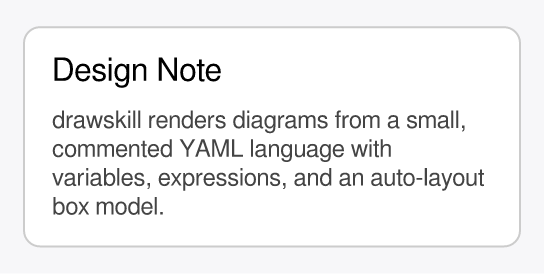
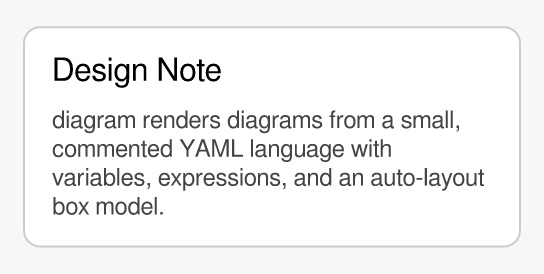
Rename project from drawskill to diagram
Unifies the project name with the companion Claude skill (already named
`diagram`). Renames all five crate directories and their package/dependency
names, the CLI binary, all Rust identifiers, and every prose reference in
docs, skill files, and examples. Re-renders note_card artifacts to pick up
the updated body text.

Changed region(s): [[0.125, 0.3796, 0.8438, 0.4964]]

diff --git a/crates/diagram-symbols-schematic/src/lib.rs b/crates/diagram-symbols-schematic/src/lib.rs
@@ -1,15 +1,15 @@
-//! Schematic (electronic) symbols for drawskill.
+//! Schematic (electronic) symbols for diagram.
 //!
 //! Provides the `schematic` plugin with common two-terminal components (resistor, capacitor,
 //! inductor, diode, voltage source, switch), a ground symbol, a wire junction, and a generic
 //! [`ic`](Ic) with named pins. Two-terminal parts are drawn horizontally with connection
 //! ports `a` (left) and `b` (right); the IC exposes one port per named pin.
 
-use drawskill_core::draw::{Painter, PathCmd, ShapeStyle, Stroke};
-use drawskill_core::geom::{Point, Rect, Size};
-use drawskill_core::measure::TextMeasurer;
-use drawskill_core::style::{Style, TextAnchor};
-use drawskill_core::symbols::{
+use diagram_core::draw::{Painter, PathCmd, ShapeStyle, Stroke};
+use diagram_core::geom::{Point, Rect, Size};
+use diagram_core::measure::TextMeasurer;
+use diagram_core::style::{Style, TextAnchor};
+use diagram_core::symbols::{
     Dir, Port, PropKind, PropValue, PropertySpec, Props, Symbol, SymbolPlugin,
 };
 
@@ -69,7 +69,7 @@ fn value_label(props: &Props, key: &str, unit: &str) -> Option<String> {
     }
     match props.get(key) {
         Some(PropValue::Number(n)) => {
-            Some(format!("{}{}", drawskill_core::expr::format_num(*n), unit))
+            Some(format!("{}{}", diagram_core::expr::format_num(*n), unit))
         }
         Some(PropValue::Text(s)) if !s.is_empty() => Some(format!("{s}{unit}")),
         _ => None,
@@ -114,7 +114,7 @@ fn draw_label(p: &mut Painter, bounds: Rect, text: &str, style: &Style) {
     p.text(
         Point::new(bounds.center().x, bounds.y + LABEL_H - 3.0),
         text,
-        drawskill_core::draw::TextStyle {
+        diagram_core::draw::TextStyle {
             color: style.text_color,
             font_family: style.font_family.clone(),
             font_size: style.font_size.min(LABEL_H),
@@ -799,7 +799,7 @@ impl Symbol for Ic {
         p.text(
             body.center(),
             props.text_or("name", "IC"),
-            drawskill_core::draw::TextStyle {
+            diagram_core::draw::TextStyle {
                 color: style.text_color,
                 font_family: style.font_family.clone(),
                 font_size: 13.0,
@@ -813,7 +813,7 @@ impl Symbol for Ic {
             p.text(
                 pin.label_pos,
                 &pin.name,
-                drawskill_core::draw::TextStyle {
+                diagram_core::draw::TextStyle {
                     color: style.text_color,
                     font_family: style.font_family.clone(),
                     font_size: 11.0,
@@ -827,9 +827,9 @@ impl Symbol for Ic {
 #[cfg(test)]
 mod tests {
     use super::*;
-    use drawskill_core::draw::Primitive;
-    use drawskill_core::measure::BasicMeasurer;
-    use drawskill_core::symbols::Registry;
+    use diagram_core::draw::Primitive;
+    use diagram_core::measure::BasicMeasurer;
+    use diagram_core::symbols::Registry;
 
     fn registry() -> Registry {
         let mut r = Registry::new();

diff --git a/crates/diagram-cli/src/main.rs b/crates/diagram-cli/src/main.rs
@@ -1,4 +1,4 @@
-//! drawskill command-line interface.
+//! diagram command-line interface.
 //!
 //! Subcommands:
 //! - `render`  — render a YAML diagram to SVG/PNG/PDF.
@@ -7,7 +7,7 @@
 //! - `symbols` — list symbols or describe one symbol's properties.
 //! - `install` — install the companion Claude skill into a `.claude/skills` directory.
 
-/// The Claude skill files, embedded so `drawskill install` is self-contained.
+/// The Claude skill files, embedded so `diagram install` is self-contained.
 const SKILL_MD: &str = include_str!("../../../skill/SKILL.md");
 const SKILL_LANGUAGE: &str = include_str!("../../../skill/reference/language.md");
 const SKILL_SYMBOLS: &str = include_str!("../../../skill/reference/symbols.md");
@@ -18,23 +18,23 @@ use std::process::ExitCode;
 
 use clap::{Parser, Subcommand};
 
-use drawskill_core::measure::TextMeasurer;
-use drawskill_core::output::Format;
-use drawskill_core::symbols::{PropKind, PropValue, Registry};
-use drawskill_core::text::FontContext;
+use diagram_core::measure::TextMeasurer;
+use diagram_core::output::Format;
+use diagram_core::symbols::{PropKind, PropValue, Registry};
+use diagram_core::text::FontContext;
 
 /// Build a registry with the built-in symbol plugins registered.
 fn build_registry() -> Registry {
     let mut reg = Registry::new();
-    reg.register(&drawskill_symbols_schematic::Schematic);
-    reg.register(&drawskill_symbols_dataflow::Dataflow);
-    reg.register(&drawskill_symbols_shapes::Shapes);
+    reg.register(&diagram_symbols_schematic::Schematic);
+    reg.register(&diagram_symbols_dataflow::Dataflow);
+    reg.register(&diagram_symbols_shapes::Shapes);
     reg
 }
 
 #[derive(Parser)]
 #[command(
-    name = "drawskill",
+    name = "diagram",
     version,
     about = "Render diagrams from a YAML language to SVG/PNG/PDF."
 )]
@@ -133,7 +133,7 @@ fn main() -> ExitCode {
     match result {
         Ok(()) => ExitCode::SUCCESS,
         Err(e) => {
-            eprintln!("drawskill: error: {e}");
+            eprintln!("diagram: error: {e}");
             ExitCode::FAILURE
         }
     }
@@ -199,7 +199,7 @@ fn cmd_render(input: PathBuf, output: String, format: Option<String>, scale: f32
 
     let registry = build_registry();
     let measurer = FontContext::new();
-    let bytes = drawskill_core::render_to_bytes(&source, &registry, &measurer, fmt, scale)?;
+    let bytes = diagram_core::render_to_bytes(&source, &registry, &measurer, fmt, scale)?;
 
     if output == "-" {
         std::io::stdout().write_all(&bytes)?;
@@ -295,7 +295,7 @@ fn cmd_symbols(what: SymbolsCmd) -> CmdResult {
         SymbolsCmd::Describe { name } => {
             let sym = registry
                 .get(&name)
-                .ok_or_else(|| format!("unknown symbol {name:?} (try `drawskill symbols list`)"))?;
+                .ok_or_else(|| format!("unknown symbol {name:?} (try `diagram symbols list`)"))?;
             let props = sym
                 .property_schema()
                 .into_iter()

diff --git a/crates/diagram-symbols-dataflow/src/lib.rs b/crates/diagram-symbols-dataflow/src/lib.rs
@@ -1,15 +1,15 @@
-//! Data-flow diagram (DFD) symbols for drawskill.
+//! Data-flow diagram (DFD) symbols for diagram.
 //!
 //! Provides the `dataflow` plugin: `process` (circle), `entity` (external entity rectangle),
 //! `store` (open-ended data store), `flow` (a labeled arrow), and `boundary` (a dashed trust
 //! boundary box). Process/entity/store expose compass ports `n`, `e`, `s`, `w`; `flow` uses
 //! `a`/`b`.
 
-use drawskill_core::draw::{Painter, ShapeStyle, Stroke, TextStyle};
-use drawskill_core::geom::{Point, Rect, Size};
-use drawskill_core::measure::TextMeasurer;
-use drawskill_core::style::{Style, TextAnchor};
-use drawskill_core::symbols::{
+use diagram_core::draw::{Painter, ShapeStyle, Stroke, TextStyle};
+use diagram_core::geom::{Point, Rect, Size};
+use diagram_core::measure::TextMeasurer;
+use diagram_core::style::{Style, TextAnchor};
+use diagram_core::symbols::{
     Dir, Port, PropKind, PropValue, PropertySpec, Props, Symbol, SymbolPlugin,
 };
 
@@ -80,7 +80,7 @@ fn label_of(props: &Props) -> &str {
 
 fn number_of(props: &Props) -> Option<String> {
     match props.get("number") {
-        Some(PropValue::Number(n)) => Some(drawskill_core::expr::format_num(*n)),
+        Some(PropValue::Number(n)) => Some(diagram_core::expr::format_num(*n)),
         Some(PropValue::Text(s)) if !s.is_empty() => Some(s.clone()),
         _ => None,
     }
@@ -334,10 +334,10 @@ impl Symbol for Flow {
         let tip = Point::new(bounds.right(), cy);
         p.path(
             vec![
-                drawskill_core::draw::PathCmd::MoveTo(tip),
-                drawskill_core::draw::PathCmd::LineTo(Point::new(tip.x - 7.0, cy - 3.5)),
-                drawskill_core::draw::PathCmd::LineTo(Point::new(tip.x - 7.0, cy + 3.5)),
-                drawskill_core::draw::PathCmd::Close,
+                diagram_core::draw::PathCmd::MoveTo(tip),
+                diagram_core::draw::PathCmd::LineTo(Point::new(tip.x - 7.0, cy - 3.5)),
+                diagram_core::draw::PathCmd::LineTo(Point::new(tip.x - 7.0, cy + 3.5)),
+                diagram_core::draw::PathCmd::Close,
             ],
             filled(style),
         );
@@ -414,9 +414,9 @@ impl Symbol for Boundary {
 #[cfg(test)]
 mod tests {
     use super::*;
-    use drawskill_core::draw::Primitive;
-    use drawskill_core::measure::BasicMeasurer;
-    use drawskill_core::symbols::Registry;
+    use diagram_core::draw::Primitive;
+    use diagram_core::measure::BasicMeasurer;
+    use diagram_core::symbols::Registry;
 
     fn registry() -> Registry {
         let mut r = Registry::new();

diff --git a/crates/diagram-symbols-shapes/src/lib.rs b/crates/diagram-symbols-shapes/src/lib.rs
@@ -1,4 +1,4 @@
-//! Generic shape symbols for drawskill.
+//! Generic shape symbols for diagram.
 //!
 //! Provides the `shapes` plugin: `rectangle`, `circle`, `oval` (ellipse), `explosion`
 //! (a starburst callout), and `arrow` (a big block arrow). Every shape accepts a `fill`
@@ -6,11 +6,11 @@
 //! shapes (`rectangle`, `circle`, `oval`, `explosion`) expose compass ports `n`, `e`, `s`,
 //! `w`; `arrow` exposes its tail port `a` and tip port `b`.
 
-use drawskill_core::draw::{Painter, PathCmd, ShapeStyle, TextStyle};
-use drawskill_core::geom::{Point, Rect, Size};
-use drawskill_core::measure::TextMeasurer;
-use drawskill_core::style::{Color, Style, TextAnchor};
-use drawskill_core::symbols::{
+use diagram_core::draw::{Painter, PathCmd, ShapeStyle, TextStyle};
+use diagram_core::geom::{Point, Rect, Size};
+use diagram_core::measure::TextMeasurer;
+use diagram_core::style::{Color, Style, TextAnchor};
+use diagram_core::symbols::{
     Dir, Port, PropKind, PropValue, PropertySpec, Props, Symbol, SymbolPlugin,
 };
 
@@ -519,9 +519,9 @@ impl Symbol for Arrow {
 #[cfg(test)]
 mod tests {
     use super::*;
-    use drawskill_core::draw::Primitive;
-    use drawskill_core::measure::BasicMeasurer;
-    use drawskill_core::symbols::Registry;
+    use diagram_core::draw::Primitive;
+    use diagram_core::measure::BasicMeasurer;
+    use diagram_core::symbols::Registry;
 
     fn registry() -> Registry {
         let mut r = Registry::new();

diff --git a/crates/diagram-cli/tests/cli.rs b/crates/diagram-cli/tests/cli.rs
@@ -1,10 +1,10 @@
-//! Integration tests that drive the built `drawskill` binary end-to-end.
+//! Integration tests that drive the built `diagram` binary end-to-end.
 
 use std::path::{Path, PathBuf};
 use std::process::Command;
 
 fn bin() -> &'static str {
-    env!("CARGO_BIN_EXE_drawskill")
+    env!("CARGO_BIN_EXE_diagram")
 }
 
 fn examples_dir() -> PathBuf {
@@ -12,14 +12,14 @@ fn examples_dir() -> PathBuf {
 }
 
 fn tmp(name: &str) -> PathBuf {
-    std::env::temp_dir().join(format!("drawskill-it-{name}"))
+    std::env::temp_dir().join(format!("diagram-it-{name}"))
 }
 
 fn run(args: &[&str]) -> std::process::Output {
     Command::new(bin())
         .args(args)
         .output()
-        .expect("failed to spawn drawskill")
+        .expect("failed to spawn diagram")
 }
 
 fn run_in(dir: &Path, args: &[&str]) -> std::process::Output {
@@ -27,12 +27,12 @@ fn run_in(dir: &Path, args: &[&str]) -> std::process::Output {
         .current_dir(dir)
         .args(args)
         .output()
-        .expect("failed to spawn drawskill")
+        .expect("failed to spawn diagram")
 }
 
 /// A fresh, empty temp directory unique to `name`.
 fn fresh_dir(name: &str) -> PathBuf {
-    let dir = std::env::temp_dir().join(format!("drawskill-it-{name}"));
+    let dir = std::env::temp_dir().join(format!("diagram-it-{name}"));
     let _ = std::fs::remove_dir_all(&dir);
     std::fs::create_dir_all(&dir).unwrap();
     dir

diff --git a/crates/diagram-core/src/symbols.rs b/crates/diagram-core/src/symbols.rs
@@ -5,7 +5,7 @@
 //! implementing [`SymbolPlugin`]; they are registered into a [`Registry`], which resolves the
 //! qualified `"plugin.symbol"` names used in diagrams.
 //!
-//! Symbols declare a [`PropertySpec`] schema (so `drawskill symbols describe` can report it,
+//! Symbols declare a [`PropertySpec`] schema (so `diagram symbols describe` can report it,
 //! and so values can be validated/defaulted), compute their intrinsic [`Size`] (optionally
 //! measuring text), expose connection [`Port`]s, and draw themselves via a [`Painter`].
 

diff --git a/crates/diagram-core/src/text.rs b/crates/diagram-core/src/text.rs
@@ -3,7 +3,7 @@
 //! [`FontContext`] owns a `cosmic-text` `FontSystem` (which loads the system fonts once) and
 //! implements [`TextMeasurer`]. The same system fonts are used by the SVG renderer (`usvg`
 //! also reads `fontdb`), so measured sizes match the rendered glyphs. It also powers the
-//! `drawskill fonts` command via [`FontContext::families`].
+//! `diagram fonts` command via [`FontContext::families`].
 
 use std::cell::RefCell;
 

diff --git a/crates/diagram-core/src/lib.rs b/crates/diagram-core/src/lib.rs
@@ -1,4 +1,4 @@
-//! drawskill core engine.
+//! diagram core engine.
 //!
 //! Pipeline: YAML text -> [`parse`] (with [`expr`] variable/expression resolution) ->
 //! [`model`] document -> [`layout`] (two-pass box model, using [`text`] measurement and
